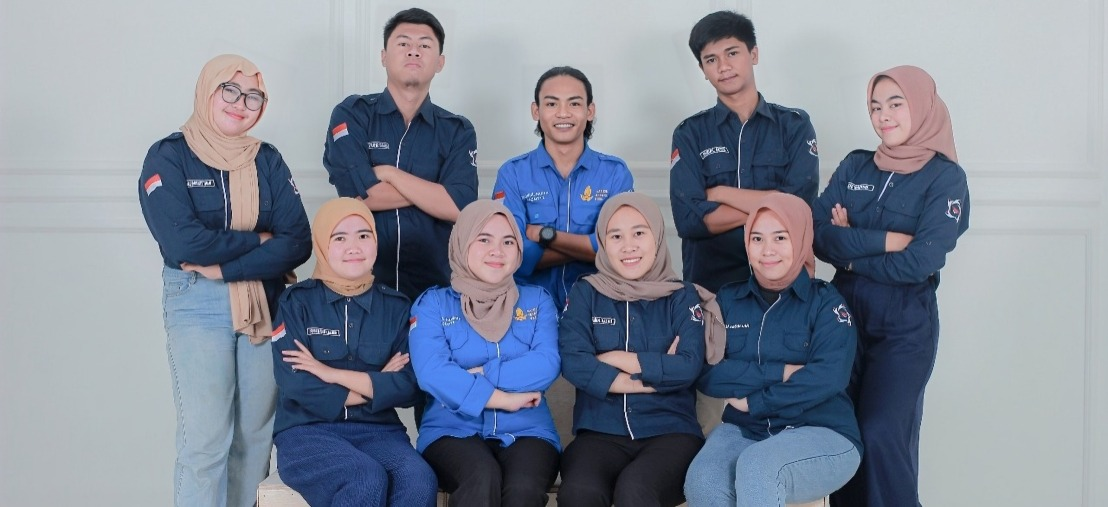
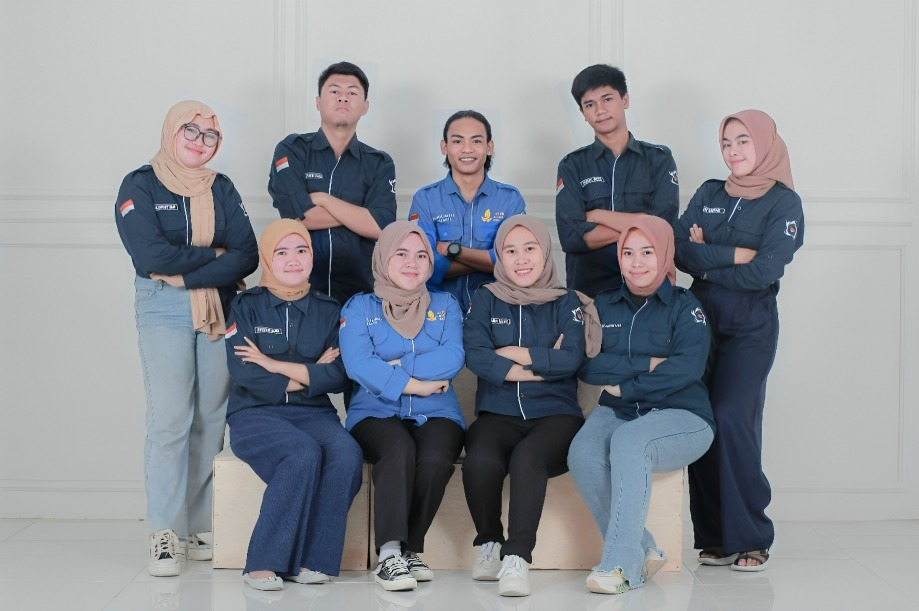
baru gambar

diff --git a/resources/views/livewire/landing/about/timeline.blade.php b/resources/views/livewire/landing/about/timeline.blade.php
@@ -78,7 +78,7 @@
                         'asset_landing/2022-2023/raw/w23-2.jpg',
                         'asset_landing/2022-2023/raw/ung23.jpg',
                         'asset_landing/2022-2023/raw/iain23.jpeg',
-                        'asset_landing/2022-2023/raw/ug23.jpg',
+                        'asset_landing/2022-2023/raw/ug23_cropped.jpg',
                     ] as $key=>$item)
                         <div class="duration-700 ease-in-out absolute inset-0 transition-all transform brightness-90"
                             data-carousel-item="{{$key}}">
